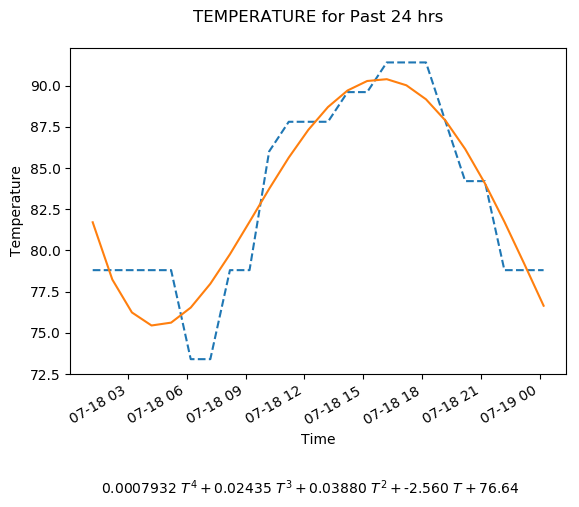
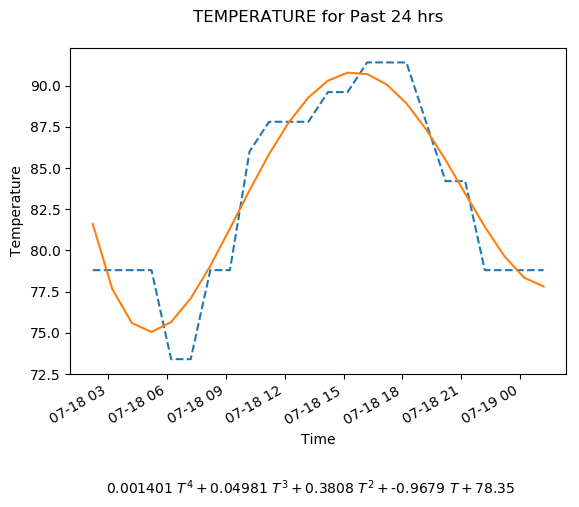
ff

diff --git a/NET/DewPoint.html b/NET/DewPoint.html
@@ -5228,6 +5228,11 @@ black;width:35%;margin-left:auto;margin-right:auto;margin-bottom:5em
 <td style="text-align:center;"> 78.8 F. </td>
 <td style="text-align:center;"> 75.2 F.</td>
 </tr>
+<tr>
+<td style="text-align:center;"> Sun Jul 19 01:08:04 2026 </td>
+<td style="text-align:center;"> 78.8 F. </td>
+<td style="text-align:center;"> 75.2 F.</td>
+</tr>
 </tbody>
 </table>
 

diff --git a/NET/weather.html b/NET/weather.html
@@ -94,7 +94,7 @@ if (i<10)
 <tr><td align="left" class="big">Date: 
 &#160;Jul 19</td></tr>
 <tr><td align="left" class="big">Time: 
-&#160;00:08:01</td></tr>
+&#160;01:08:02</td></tr>
 <tr><td align="left" class="big">Wind: 
 &#160;calm</td></tr>
 <tr><td align="left" class="big">Visibility: 
@@ -122,7 +122,7 @@ if (i<10)
 <dt align="center">Temperature: μ = 83.07, 
 σ = 5.63</dt>
 <p></p>
-<dt align="center">Pressure: μ = 29.99,
+<dt align="center">Pressure: μ = 29.98,
 σ = 0.05</dt>
 </dl>
 </td>

diff --git a/WeatherNotes/alert.html b/WeatherNotes/alert.html
@@ -25,7 +25,7 @@
 </head>
 <body>
 <p>
-   <h2>Heat Advisory issued July 18 at 8:17PM CDT until July 21 at 7:00PM CDT by NWS Paducah KY</h2>
+   <h2>Heat Advisory issued July 19 at 1:26AM CDT until July 21 at 7:00PM CDT by NWS Paducah KY</h2>
    <div style="font-size:120%">* WHAT...Heat index values between 100 to 105 expected.
       
       * WHERE...Portions of southern Illinois, western Kentucky, and

diff --git a/WeatherNotes/fcast.html b/WeatherNotes/fcast.html
@@ -81,7 +81,7 @@
    </p>
    <p>
       <div style="font-size:120%">
-         <h3>Friday</h3>A slight chance of rain showers between 7am and 1pm. Mostly sunny, with a high near 84. East southeast wind around 5 mph.<br></div>
+         <h3>Friday</h3>A slight chance of rain showers between 7am and 1pm. Mostly sunny, with a high near 83. East southeast wind around 5 mph.<br></div>
    </p>
    <p>
       <div style="font-size:120%">

diff --git a/WeatherNotes/alert.md b/WeatherNotes/alert.md
@@ -1,5 +1,5 @@
 <p>
-   <h2>Heat Advisory issued July 18 at 8:17PM CDT until July 21 at 7:00PM CDT by NWS Paducah KY</h2>
+   <h2>Heat Advisory issued July 19 at 1:26AM CDT until July 21 at 7:00PM CDT by NWS Paducah KY</h2>
    <div style="font-size:120%">* WHAT...Heat index values between 100 to 105 expected.
       
       * WHERE...Portions of southern Illinois, western Kentucky, and

diff --git a/WeatherNotes/fcast.md b/WeatherNotes/fcast.md
@@ -55,7 +55,7 @@
    </p>
    <p>
       <div style="font-size:120%">
-         <h3>Friday</h3>A slight chance of rain showers between 7am and 1pm. Mostly sunny, with a high near 84. East southeast wind around 5 mph.<br></div>
+         <h3>Friday</h3>A slight chance of rain showers between 7am and 1pm. Mostly sunny, with a high near 83. East southeast wind around 5 mph.<br></div>
    </p>
    <p>
       <div style="font-size:120%">

diff --git a/NET/DewPoint.md b/NET/DewPoint.md
@@ -1070,3 +1070,4 @@ black;width:35%;margin-left:auto;margin-right:auto;margin-bottom:5em
 | Sat Jul 18 22:08:05 2026 | 78.8 F. | 75.2 F.|
 | Sat Jul 18 23:08:05 2026 | 78.8 F. | 75.2 F.|
 | Sun Jul 19 00:08:04 2026 | 78.8 F. | 75.2 F.|
+| Sun Jul 19 01:08:04 2026 | 78.8 F. | 75.2 F.|